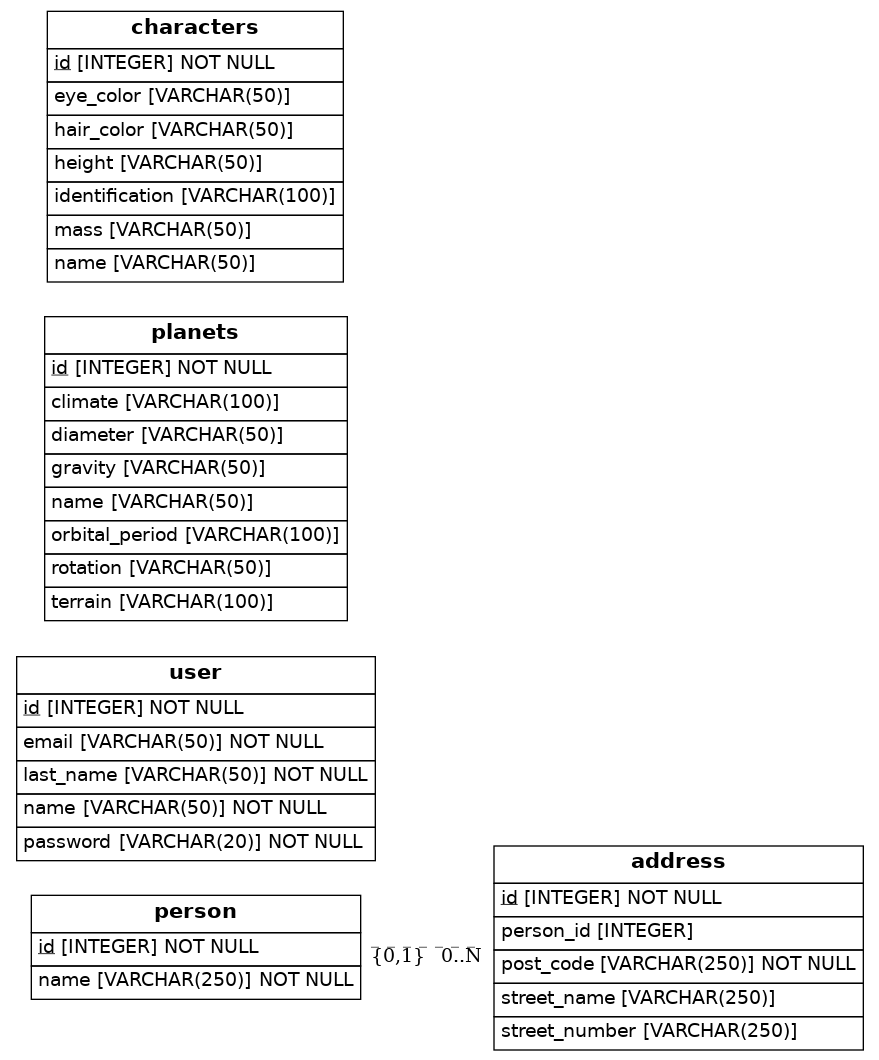
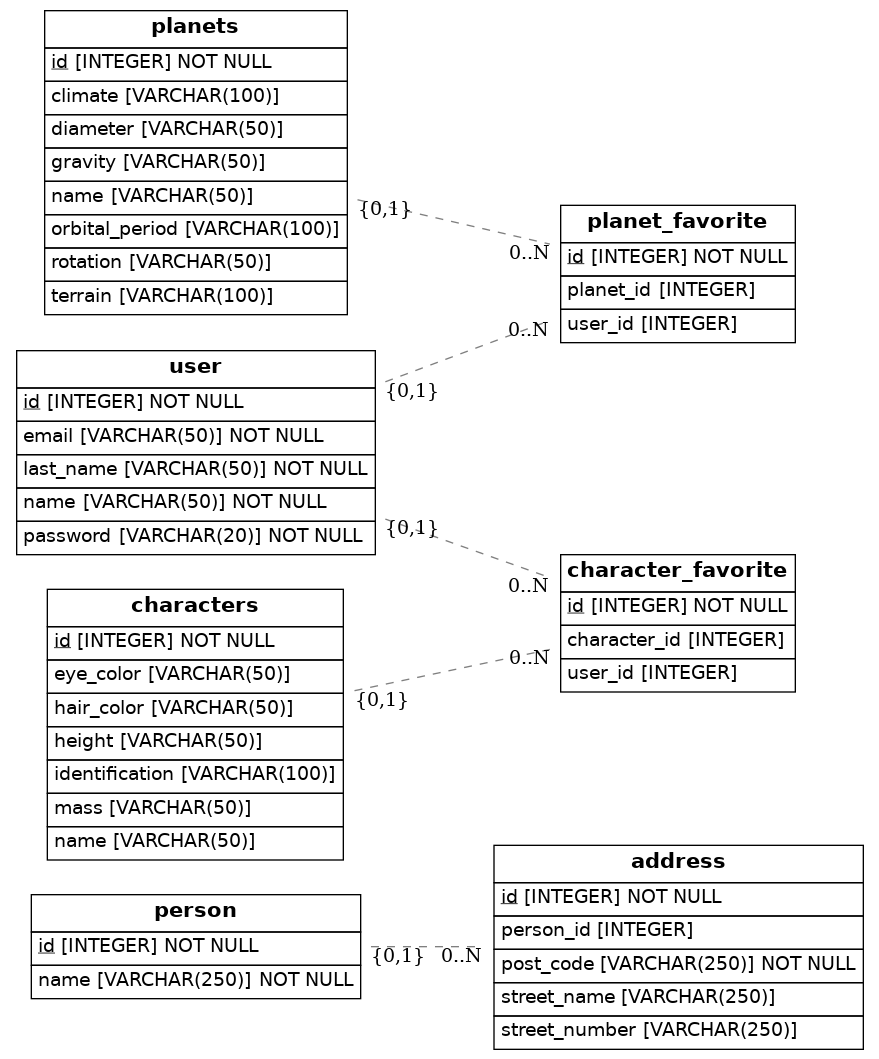
diagrama hecho

diff --git a/src/models.py b/src/models.py
@@ -35,6 +35,9 @@ class User(Base):
     email = Column(String(50), nullable=False)
     password = Column(String(20), nullable=False)
 
+    character_favorite = relationship("Character_favorite", back_populates="user")
+    planet_favorite = relationship("Planet_favorite", back_populates="user")
+
     
 class Planets(Base):
     __tablename__ = 'planets'
@@ -47,8 +50,16 @@ class Planets(Base):
     terrain = Column(String(100))
     orbital_period = Column(String(100))
 
-    
-    
+    planet_favorite = relationship("Planet_favorite", back_populates="planets")
+
+class Planet_favorite(Base):
+    __tablename__ = "planet_favorite"
+    id = Column(Integer, primary_key=True)
+    user_id = Column(Integer, ForeignKey("user.id"))
+    planet_id = Column(Integer, ForeignKey("planets.id"))
+
+    user = relationship("User", back_populates="planet_favorite")
+    planets = relationship("Planets", back_populates="planet_favorite")
 
 class Characters(Base):
     __tablename__ = 'characters'
@@ -60,11 +71,22 @@ class Characters(Base):
     eye_color = Column(String(50))
     identification = Column(String(100))
 
-    
+    character_favorite = relationship("Character_favorite", back_populates="characters")
 
-class Favorites(Base):
-    __tablename__ = 'favorites'
-    
+class Character_favorite(Base):
+    __tablename__ = "character_favorite"
+    id = Column(Integer, primary_key=True)
+    user_id = Column(Integer, ForeignKey("user.id"))
+    character_id = Column(Integer, ForeignKey("characters.id"))
+
+    user = relationship("User", back_populates="character_favorite")
+    characters = relationship("Characters", back_populates="character_favorite")
+
+
+
+
+
+
 
    
 
